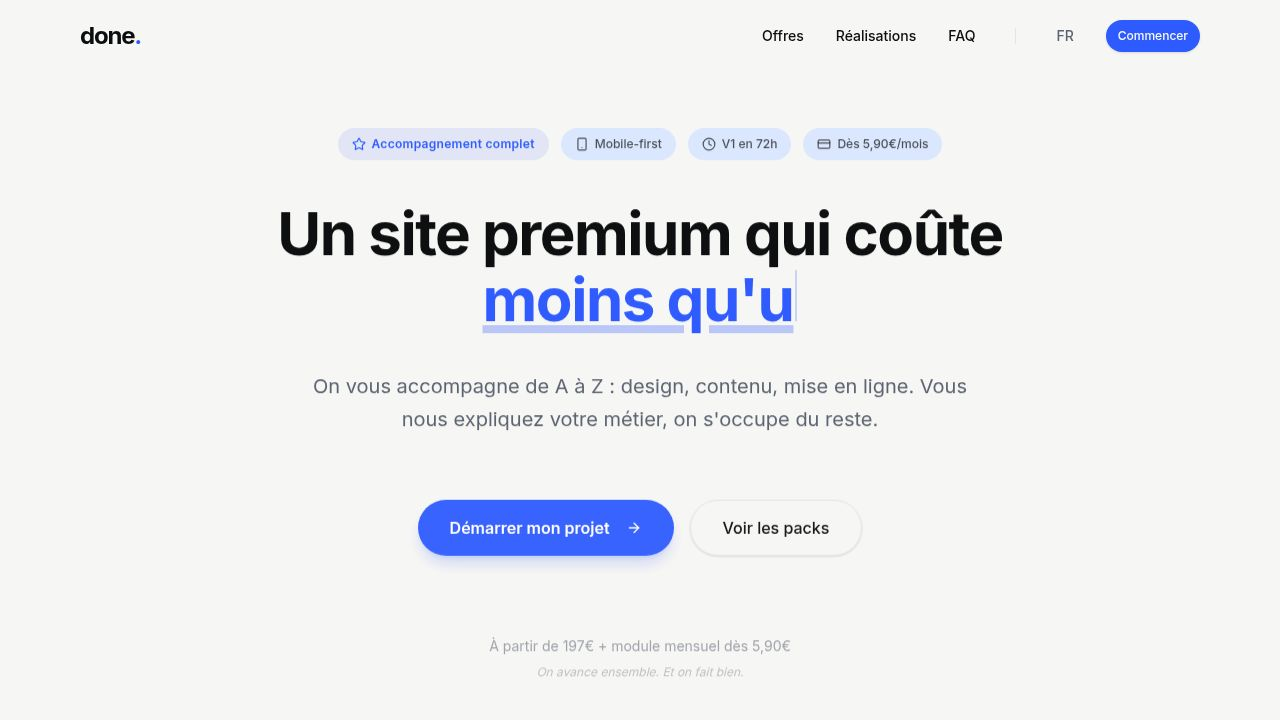
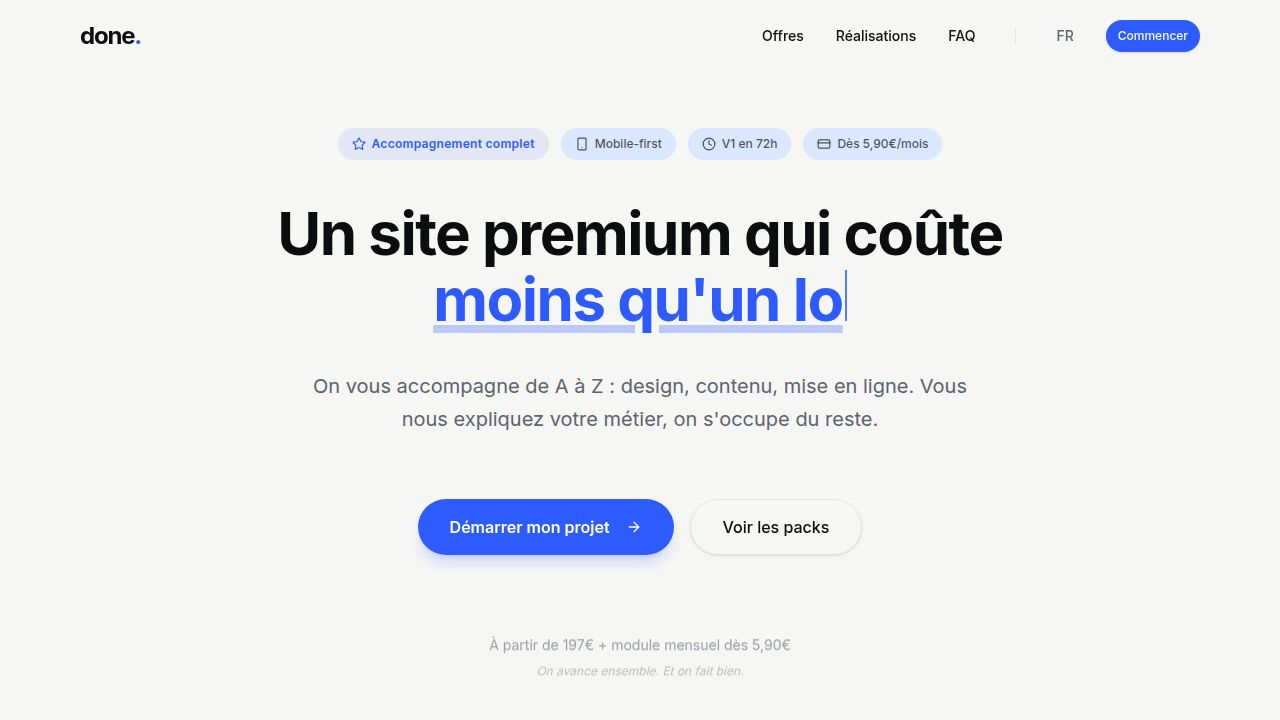
Add a new featured project showcasing a restaurant and wine bar
Update the project data to include "Moment." as a featured project with its corresponding image and details.

Replit-Commit-Author: Agent
Replit-Commit-Session-Id: 29cd8734-c7a5-4542-9fbe-eaa808f43315
Replit-Commit-Checkpoint-Type: full_checkpoint
Replit-Commit-Event-Id: 583185a2-c4fb-4995-8393-196060ea633e
Replit-Commit-Screenshot-Url: https://storage.googleapis.com/screenshot-production-us-central1/45cda848-3f85-4523-bb4f-4df09fe2f5ec/29cd8734-c7a5-4542-9fbe-eaa808f43315/kA7Rjn1
Replit-Helium-Checkpoint-Created: true

diff --git a/client/src/data/projects.ts b/client/src/data/projects.ts
@@ -12,12 +12,19 @@ export type Project = {
 
 export const projects: Project[] = [
   {
+    name: "Moment.",
+    url: "https://moment-liege.be/",
+    image: "/projects/moment_opt.webp",
+    tags: ["Restaurant", "Premium"],
+    gradient: "from-stone-800 to-zinc-900",
+    featured: true,
+  },
+  {
     name: "Kuore",
     url: "https://kuore.be/",
     image: "/projects/kuore_opt.webp",
     tags: ["Restaurant", "Premium"],
     gradient: "from-red-900 to-stone-800",
-    featured: true,
   },
   {
     name: "Mood BXL",